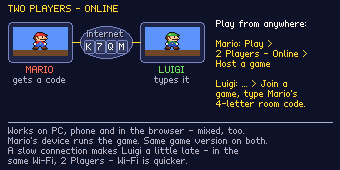
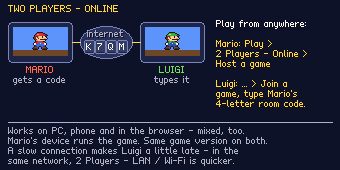
v1.9.3: "LAN / Wi-Fi" mit Hinweisen zu Firewall und Online
- Menüpunkt "2 Players - LAN / Wi-Fi" (lokales Netz, Kabel oder WLAN)
- Hinweise im LAN-Menü, bei der Host-Suche, bei "keine Antwort" und auf
  der Hilfeseite: Host-PC mit Firewall -> UDP 47110-47111 freigeben;
  ohne Admin-Rechte (Schulnetz) geht "Online" immer
- Playtest "lanmenu"

Changed region(s): [[0.0882, 0.9118, 0.6765, 0.9706]]

diff --git a/tools/gen_help.py b/tools/gen_help.py
@@ -703,7 +703,7 @@ def page_players():
 
 def page_wifi():
     img, d = new_page()
-    text(d, (8, 5), "TWO PLAYERS - WI-FI", f8, GOLD)
+    text(d, (8, 5), "TWO PLAYERS - LAN / WI-FI", f8, GOLD)
     red, green = (255, 106, 90, 255), (106, 226, 106, 255)
 
     def device(x, y, hero, name, col, role):
@@ -723,16 +723,16 @@ def page_wifi():
         d.arc((112 - r, 46 - r, 112 + r, 46 + r), 140, 220, fill=GOLD)
         d.arc((96 - r, 46 - r, 96 + r, 46 + r), -40, 40, fill=GOLD)
     x = 212
-    rows = (("Both devices in the", WHITE), ("same Wi-Fi.", WHITE), ("", WHITE),
-            ("Mario: Play >", GOLD), ("2 Players - Wi-Fi >", GOLD), ("Host a game", GOLD), ("", WHITE),
+    rows = (("Both in the same", WHITE), ("network (cable or", WHITE), ("Wi-Fi).", WHITE),
+            ("Mario: Play >", GOLD), ("2 Players - LAN /", GOLD), ("Wi-Fi > Host a game", GOLD), ("", WHITE),
             ("Luigi: ... > Join a", GOLD), ("game, pick Mario's", GOLD), ("(or type the address", WHITE),
             ("Mario's screen shows).", WHITE))
     for k, (s_, col) in enumerate(rows):
         text(d, (x, 20 + k * 10), s_, fill=col)
     d.line((8, 132, 332, 132), fill=DIM)
-    text(d, (8, 137), "Mario's device runs the game, Luigi's shows it. Same game", fill=DIM)
-    text(d, (8, 147), "version on both. Pause from either side. Not in the browser.", fill=DIM)
-    text(d, (8, 157), "Luigi can leave and join again any time.", fill=DIM)
+    text(d, (8, 136), "Mario's device runs the game. Same version on both.", fill=DIM)
+    text(d, (8, 146), "Host PC with a firewall: allow UDP 47110-47111.", fill=GOLD)
+    text(d, (8, 156), "No admin rights (school network)? Online always works.", fill=GOLD)
     return img
 
 
@@ -769,7 +769,7 @@ def page_online():
     text(d, (8, 127), "Works on PC, phone and in the browser - mixed, too.", fill=DIM)
     text(d, (8, 137), "Mario's device runs the game. Same game version on both.", fill=DIM)
     text(d, (8, 147), "A slow connection makes Luigi a little late - in the", fill=DIM)
-    text(d, (8, 157), "same Wi-Fi, 2 Players - Wi-Fi is quicker.", fill=DIM)
+    text(d, (8, 157), "same network, 2 Players - LAN / Wi-Fi is quicker.", fill=DIM)
     return img
 
 

diff --git a/CLAUDE.md b/CLAUDE.md
@@ -713,6 +713,15 @@ Stufe 2 Internet (erst nach Freigabe durch einen Verbindungstest).
   Testprozess den Port 47111 hält (sonst „error 20“ und der Gast landet
   beim alten Host). Hilfeseite „Wi-Fi“.
 
+- **v1.9.3 (Nutzer)**: Menüpunkt heißt „2 Players - LAN / Wi-Fi“ (gemeint
+  ist das lokale Netz, Kabel oder WLAN; nicht: Gäste-WLAN/getrennte
+  Teilnetze). Hinweise im LAN-Menü, in der Host-Suche, bei „keine
+  Antwort“ und auf der Hilfeseite: Host-PC mit Firewall → UDP 47110–47111
+  freigeben; ohne Admin-Rechte (Schulnetz) geht „Online“ immer
+  (ausgehende Verbindung zum Relay, keine Freigabe nötig). Android-Hosts
+  und Gäste brauchen nie eine Freigabe, Windows fragt beim ersten Hosten.
+  Playtest `lanmenu` (passen die Hinweise auf den Schirm).
+
 ## Online-Coop (v1.9, Stufe 2)
 
 Freigabe nach dem Wi-Fi-Test (Nutzer 2026-10-02: „Klappt alles super“).
